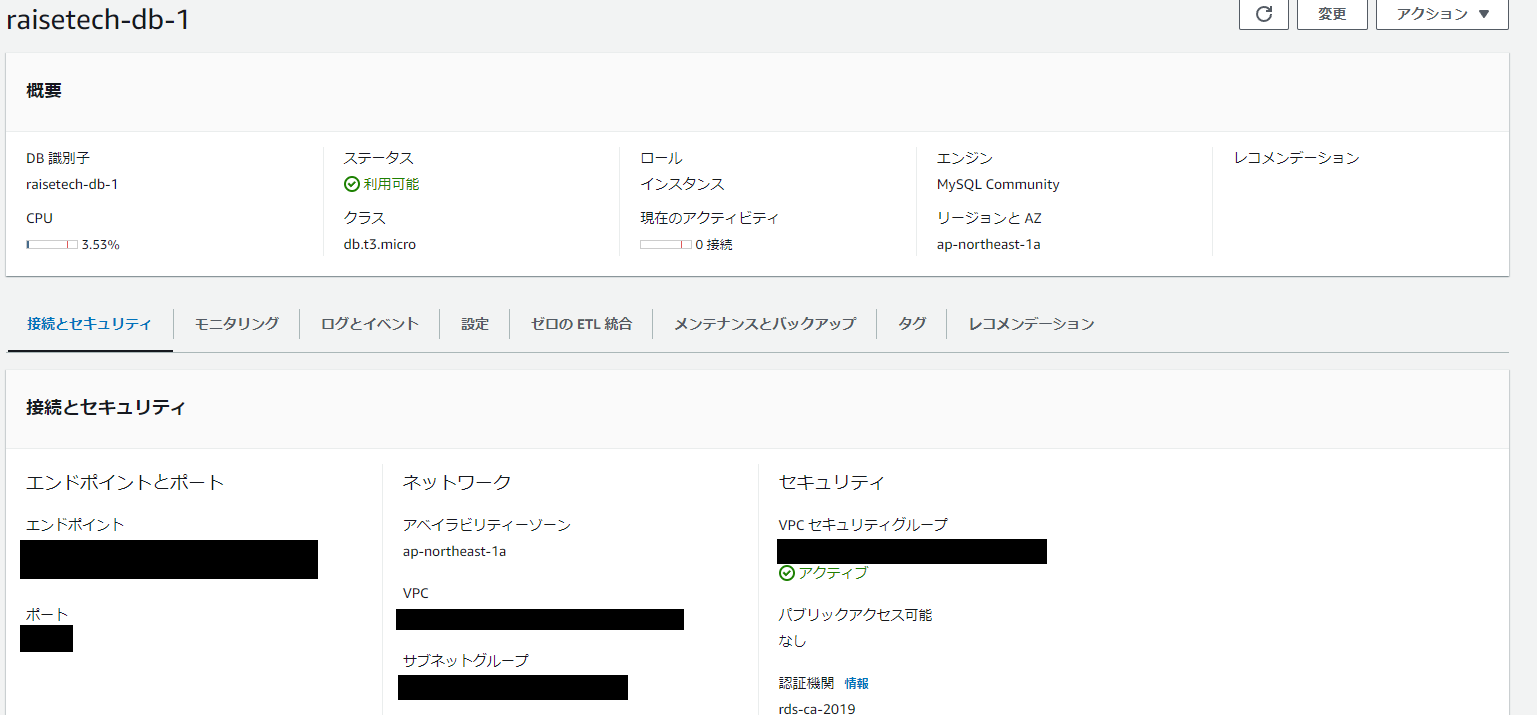
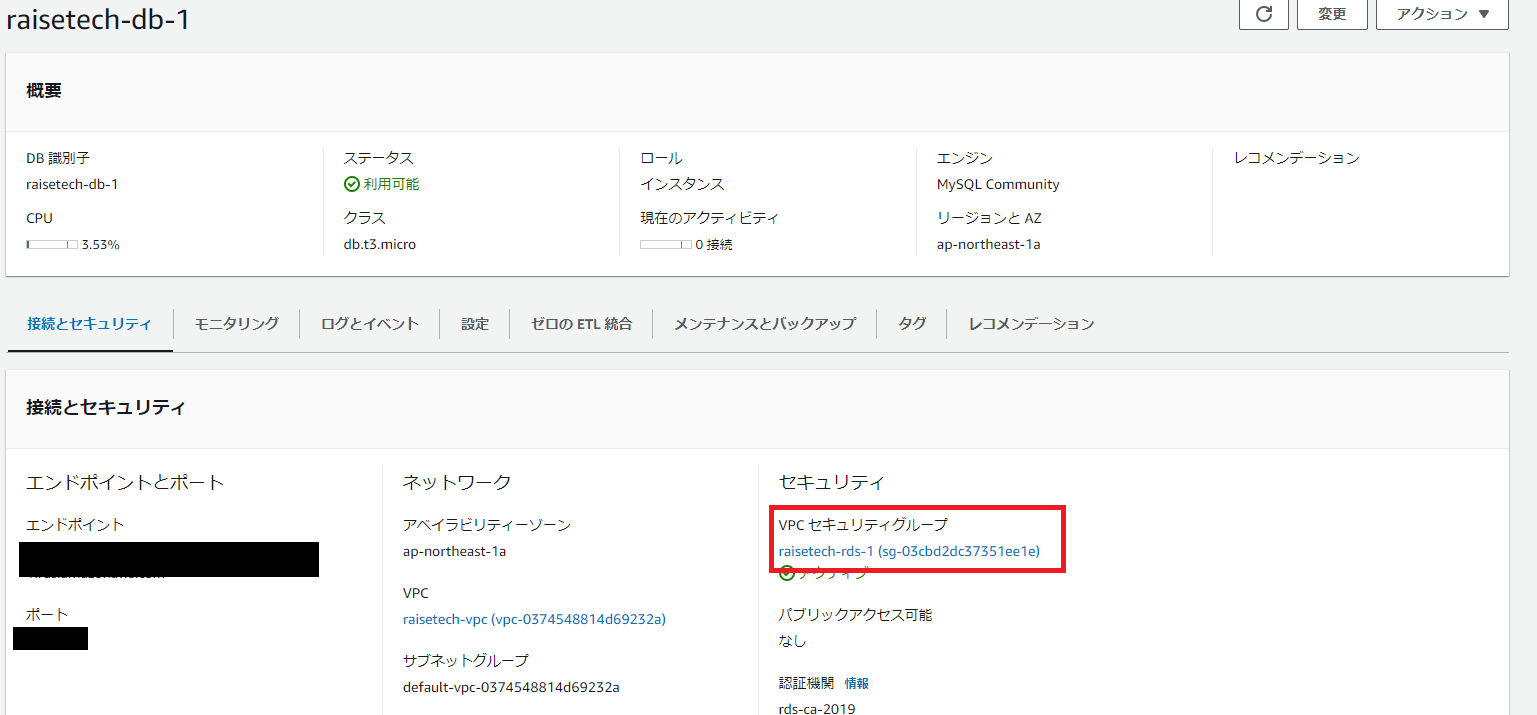
add lecture04.md

diff --git a/lecture04.md b/lecture04.md
@@ -14,6 +14,21 @@
 4.EC2からRDSに接続し、正常であることを確認<br>
 ![04](l04/04.png)<br>
 
+
+5.EC2のセキュリティグループ<br>
+![05](l04/05.png)<br>
+![06](l04/06.png)<br>
+
+6.RDSのセキュリティグループ(3.RDSを構築の画像にセキュリティグループ名の記載あり<br>
+インバウンドルール<br>
+![07](l04/07.png)<br>
+アウトバウンドルール<br>
+![08](l04/08.png)<br>
+
+7.サブネットグループ構成<br>
+![09](l04/08.png)<br>
+
+
 #### 今回行った事
 講義資料を見ながらVPC、EC2インスタンス、RDSを作成。<br>
 EC2、RDSのVPCは新たに作成したVPCを指定。以前の課題で作成したcloud9のVPCがデフォルト設定になっていたので間違えないように注意した。<br>
